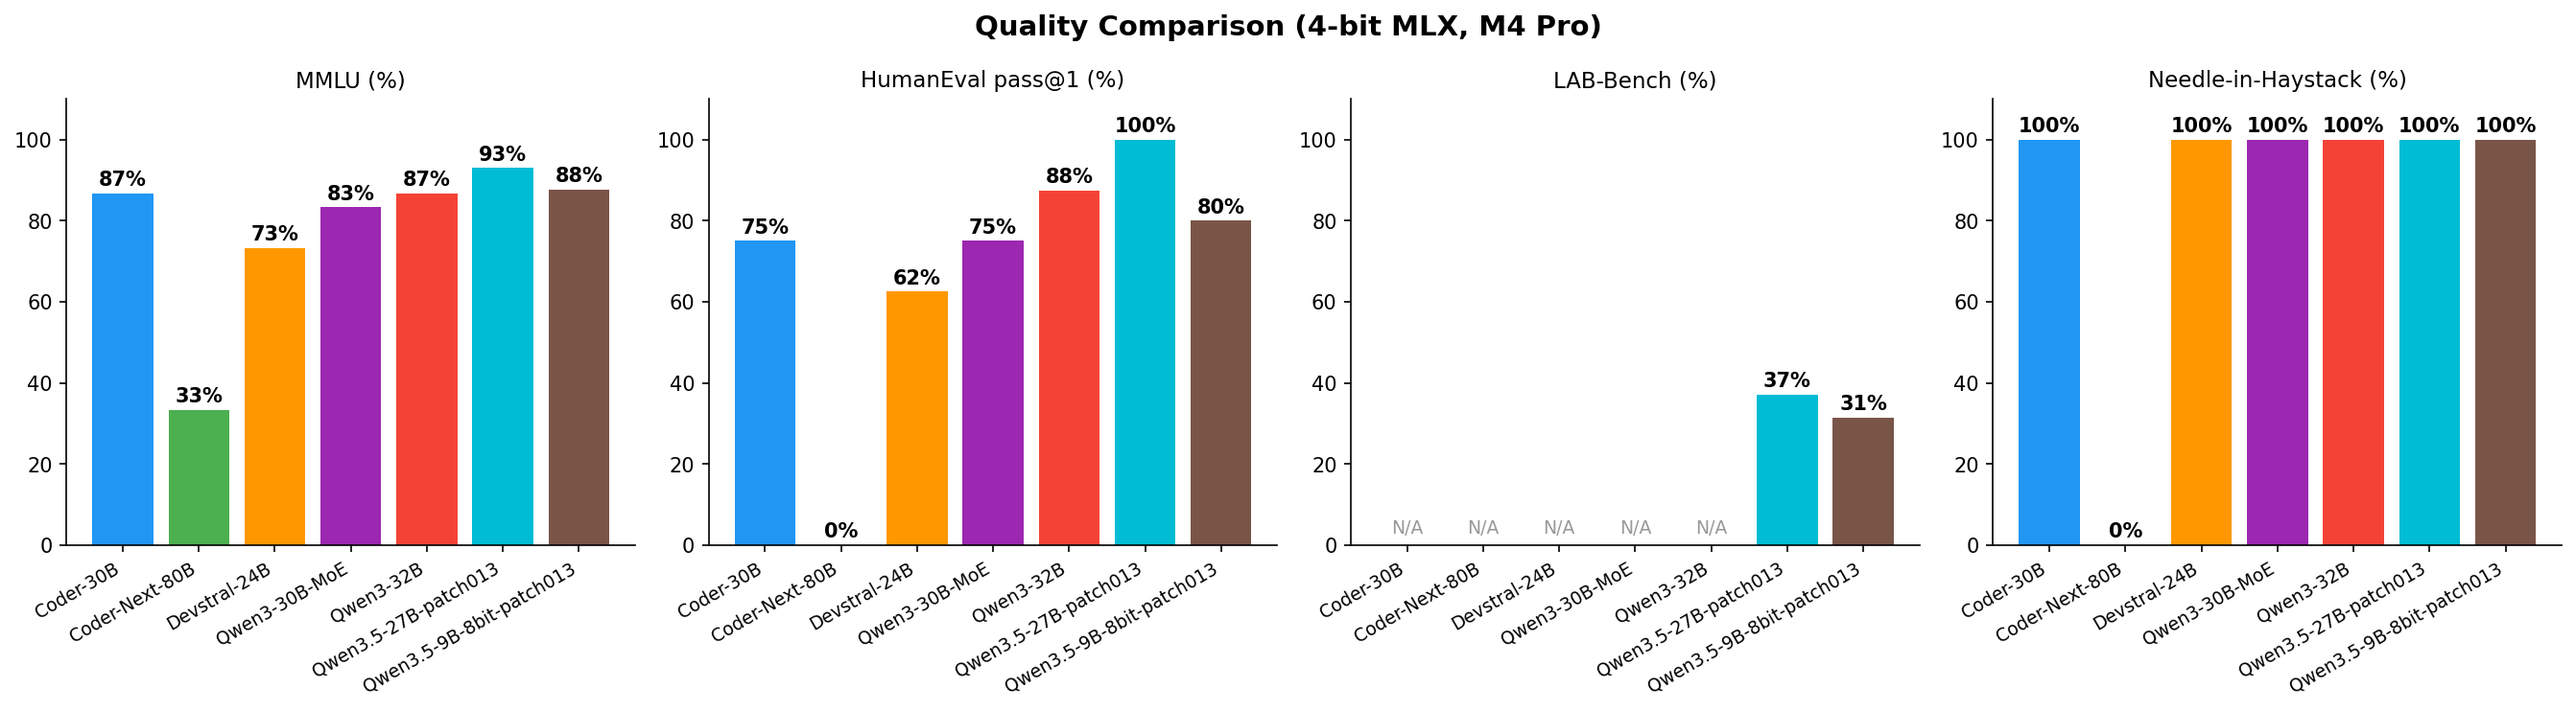
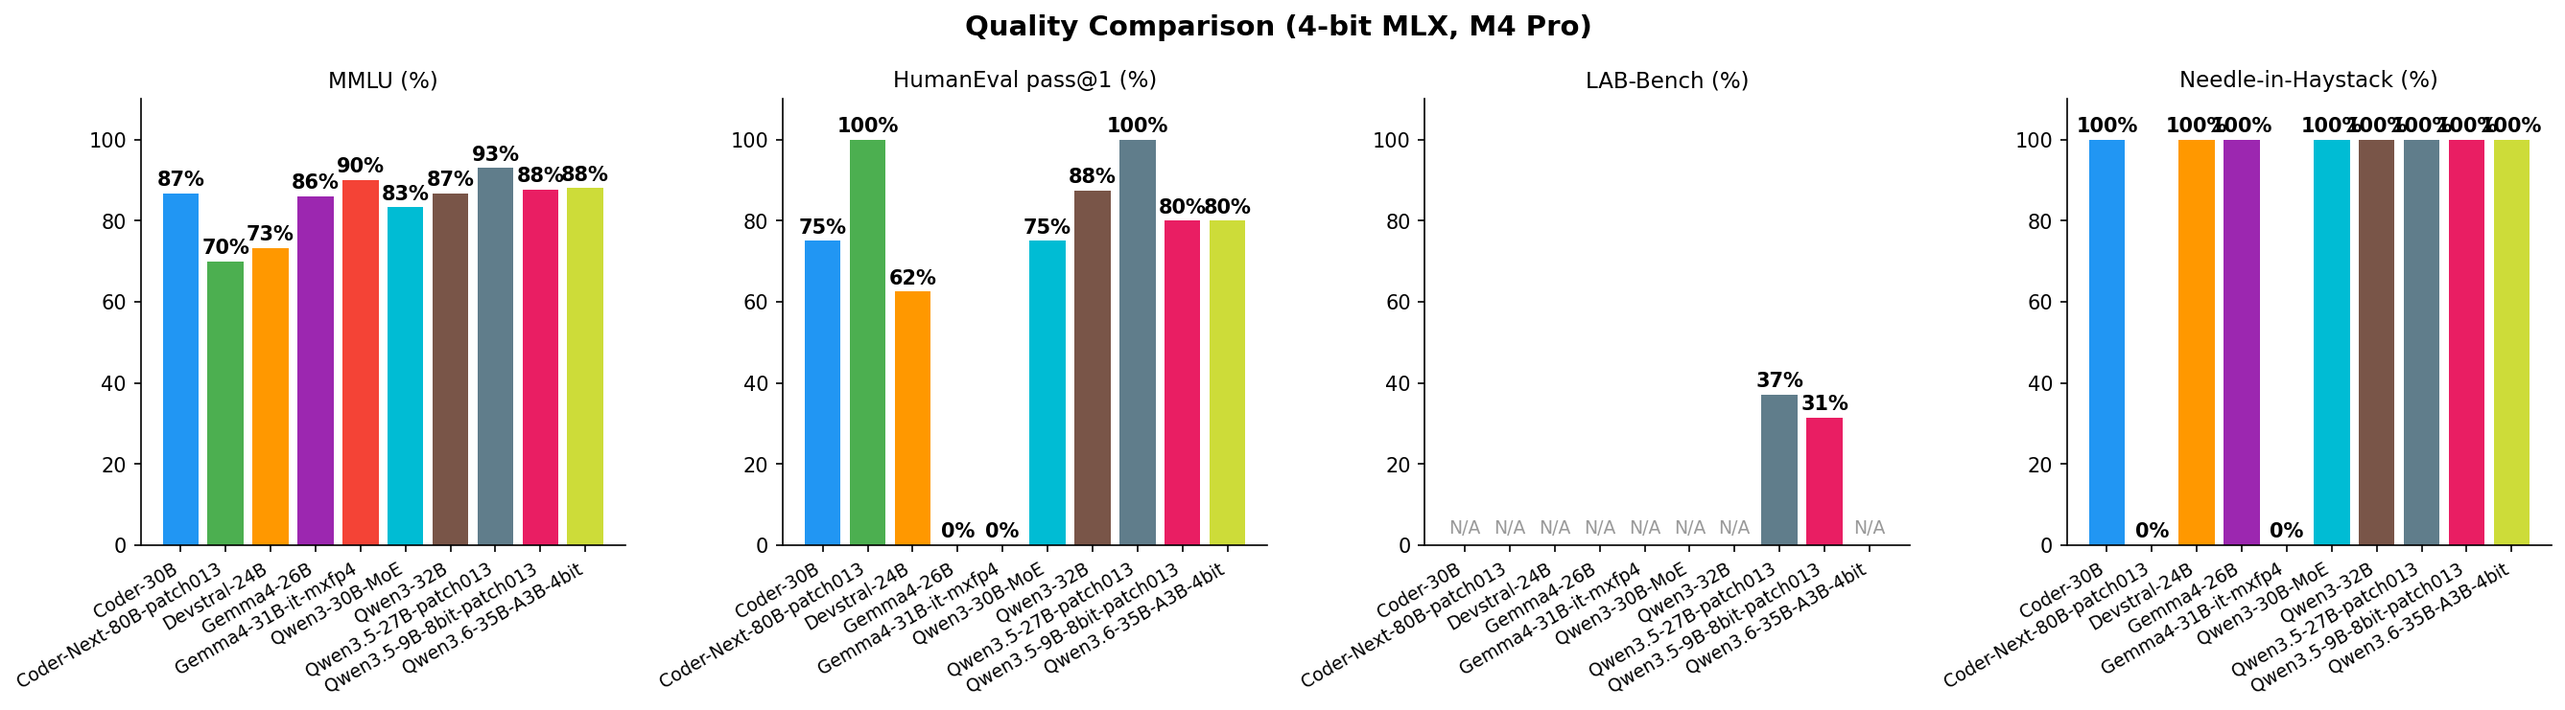
Eval Qwen3.6-35B-A3B-4bit + add 10-model quality table to README
Qwen3.6-35B-A3B-4bit on M4 (the sister teams' flagship 256K agentic
model): MMLU 88.0%, HumanEval 80%, Needle 1K PASS. Works out of the
box via mlx-community 4bit through patch 013's hybrid cache fix.

Quality table added to README ranking all 10 evaluated models. Top
three: Qwen3.5-27B-4bit (93%/100%), Gemma 4 31B-it-mxfp4 (90%),
Qwen3.6-35B-A3B-4bit (88%/80%). Coder-Next-80B pre-patch013 result
archived; chart regenerated.

diff --git a/README.md b/README.md
@@ -64,11 +64,34 @@ silent quality regressions in checkpoints that pass MMLU/HumanEval but emit
   proper fix for Qwen3.5/Coder-Next batched decode (current patch 008 is
   serial-decode fallback that limits MAX_RUNNING=1; correctness now fine,
   throughput is the only remaining concern).
-- Eval Qwen3.6-35B (preset added but not yet downloaded).
+- Test Qwen3.5/3.6 video input (`video_grid_thw`, `second_per_grid_ts`)
+  end-to-end through the bridge.
+- Source / build Gemma 4 mlx-community checkpoint with `preprocessor_config.json`
+  to unlock image+video+audio.
 - SGLang multimodal processor compat for Idefics3/SmolVLM (or custom
   processor that bypasses `transformers_auto`).
 - Root-cause patch 001 scatter-write corruption (MLX-level lazy-graph
   aliasing — works in REPL, fails in production server context).
+
+### Quality table (post-patch013, 50–100 sample MMLU on M4 Pro)
+
+| Model | MMLU | HumanEval | Needle 1K |
+|:------|:----:|:---------:|:---------:|
+| Qwen3.5-27B-4bit | **93.0%** | **100%** | PASS |
+| Gemma 4 31B-it-mxfp4 | 90.0% | 0% (raw-prompt path) | MISS |
+| Qwen3.6-35B-A3B-4bit | 88.0% | 80% | PASS |
+| Qwen3.5-9B-MLX-8bit | 87.7% | 80% | PASS |
+| Qwen3-32B (turboquant) | 86.7% | 87.5% | PASS |
+| Coder-30B-A3B-4bit | 86.7% | 75% | PASS |
+| Gemma 4 26B-A4B-it-4bit | 86.0% | 0% (raw-prompt path) | PASS |
+| Qwen3-30B-MoE-4bit | 83.3% | 75% | PASS |
+| Devstral-24B-4bit | 73.3% | 62.5% | PASS |
+| Coder-Next-80B-4bit | 70.0% | 100% | MISS |
+
+All evals run with `--no-thinking` and `--disable-radix-cache`. HumanEval
+0% on Gemma 4 is an instruction-format quirk on the raw `/v1/completions`
+endpoint, not a model defect (chat/completions evals are clean).
+Chart: `benchmarks/quality/quality_comparison.png`.
 
 ## Cross-team collaboration
 
